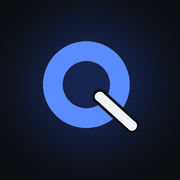
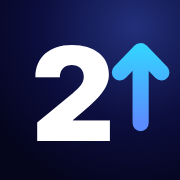
Nou nom: 2UP (Reps up. Weight up.) i entrenador IA Atlas; icona nova
Claude-Session: https://claude.ai/code/session_01DCgG94rPd1kzwswCFMenVE

diff --git a/index.html b/index.html
@@ -4,10 +4,10 @@
 <meta name="apple-mobile-web-app-capable" content="yes">
 <meta name="mobile-web-app-capable" content="yes">
 <meta name="apple-mobile-web-app-status-bar-style" content="black-translucent">
-<meta name="apple-mobile-web-app-title" content="Quadern">
+<meta name="apple-mobile-web-app-title" content="2UP">
 <link rel="manifest" href="manifest.webmanifest">
-<link rel="apple-touch-icon" href="apple-touch-icon.png?v=2">
-<link rel="icon" href="icon-192.png?v=2">
+<link rel="apple-touch-icon" href="apple-touch-icon.png?v=3">
+<link rel="icon" href="icon-192.png?v=3">
 <style>:root{box-sizing:border-box;padding-top:env(safe-area-inset-top,0px);padding-bottom:env(safe-area-inset-bottom,0px)}html{scroll-padding-top:env(safe-area-inset-top,0px)}body{margin:0;font:14px -apple-system,BlinkMacSystemFont,sans-serif}img{max-width:100%}[hidden]{display:none!important}
 #login{position:fixed;inset:0;z-index:50;background:var(--bg,#08082a);color:var(--fg,#eef1f4);overflow:auto;padding:calc(40px + env(safe-area-inset-top,0px)) max(20px,env(safe-area-inset-right,0px)) 40px max(20px,env(safe-area-inset-left,0px))}
 .lgin{max-width:420px;margin:0 auto;display:flex;flex-direction:column;gap:18px}
@@ -15,7 +15,7 @@
 <script src="https://cdn.jsdelivr.net/npm/@supabase/supabase-js@2.45.4/dist/umd/supabase.js"></script>
 <script src="store.js"></script>
 </head><body>
-<title>Quadern d'Entrenament</title>
+<title>2UP</title>
 
 <link rel="preconnect" href="https://fonts.googleapis.com">
 <link rel="preconnect" href="https://fonts.gstatic.com" crossorigin>
@@ -542,7 +542,7 @@ function renderTop(){
       <button class="pos" id="t-list" aria-label="Llista d'exercicis">${n?i+1:0} / ${n}</button>
       <button class="fin ${draft.id?"primary":""}" id="t-fin">${draft.id?"Desar":"Finalitzar"}</button></div>`;
   } else {
-    t.innerHTML=`<span class="brand">Quadern <i>d'entrenament</i></span><span style="display:flex;align-items:center;gap:2px">${IS_COACH()?`<button class="plain" id="t-clients" aria-label="Clients" style="font-size:15px;font-weight:700;padding:4px 8px;color:var(--accent)">Clients</button>`:""}<button class="plain" id="t-acc" aria-label="Compte i dades" style="font-size:20px;padding:4px 8px">⚙</button></span>`;
+    t.innerHTML=`<span class="brand">2UP <i>coached by Atlas</i></span><span style="display:flex;align-items:center;gap:2px">${IS_COACH()?`<button class="plain" id="t-clients" aria-label="Clients" style="font-size:15px;font-weight:700;padding:4px 8px;color:var(--accent)">Clients</button>`:""}<button class="plain" id="t-acc" aria-label="Compte i dades" style="font-size:20px;padding:4px 8px">⚙</button></span>`;
   }
 }
 $("#top").addEventListener("click",e=>{const b=e.target.closest("button");if(!b)return;
@@ -760,8 +760,8 @@ async function pushUI(){
   const P=window.QStore&&window.QStore.push, el=$("#acc-push"), b=$("#acc-notif"); if(!P||!el) return;
   const st=await P.state();
   const txt={on:"🔔 Notificacions activades en aquest mòbil.",off:"Activa les notificacions per rebre el pla del dia i l'informe del diumenge.",
-    denied:"Les notificacions estan bloquejades. Activa-les a Ajustos → Notificacions → Quadern.",
-    install:"Per rebre notificacions, obre el Quadern des de la icona de la pantalla d'inici.",unsupported:"Aquest mòbil no admet notificacions (cal iOS 16.4 o posterior)."}[st];
+    denied:"Les notificacions estan bloquejades. Activa-les a Ajustos → Notificacions → 2UP.",
+    install:"Per rebre notificacions, obre 2UP des de la icona de la pantalla d'inici.",unsupported:"Aquest mòbil no admet notificacions (cal iOS 16.4 o posterior)."}[st];
   el.textContent=txt; if(b){ b.hidden=!(st==="off"||st==="on"); b.textContent=st==="on"?"Enviar una notificació de prova":"🔔 Activar notificacions"; b.className=st==="on"?"":"primary"; b.dataset.st=st }
 }
 $("#scrim").addEventListener("click",async e=>{
@@ -841,7 +841,7 @@ function renderSummary(){
 /* còpia de seguretat */
 function backupJSON(){const c={};Object.keys(S).forEach(k=>{c[k]=(S[k]||[]).map(d=>({...d}))});return JSON.stringify({app:"quadern",version:1,exportedAt:new Date().toISOString(),collections:c})}
 async function exportData(b){
-  const name="quadern-copia-"+todayISO()+".json", txt=backupJSON();
+  const name="2up-copia-"+todayISO()+".json", txt=backupJSON();
   if(!window.QStore){ let dl=null; try{dl=await window.qapp.use("downloads")}catch(e){}
     if(!dl){toast("En aquesta vista no es poden descarregar fitxers");return}
     try{await dl.save({filename:name,data:new Blob([txt],{type:"application/json"})});toast("Còpia preparada")}catch(e){toast("Descàrrega cancel·lada")} return }

diff --git a/engage.js b/engage.js
@@ -1,4 +1,4 @@
-/* Quadern · enganxar: salutació, missatge de Q en format xat, hàbits i ratxes, resum divertit i targeta per compartir.
+/* 2UP · enganxar: salutació, missatge de Q en format xat, hàbits i ratxes, resum divertit i targeta per compartir.
    Depèn dels helpers globals de index.html (S, esc, fn, md, todayISO, addDays, weekStart, tplsSorted, bwData, vol...). */
 
 /* ---------- salutació ---------- */
@@ -22,7 +22,7 @@ function avuiTop(){
   if(seen===r.id) return "";
   const t=plain(r.text), short=t.length>240?t.slice(0,235).replace(/\s+\S*$/,"")+"…":t;
   const when=r.createdAt?new Date(r.createdAt).toLocaleDateString("ca-ES",{weekday:"short",day:"numeric",month:"short"}):"";
-  return `<div class="qchat"><div class="qav">${esc(QNAME())}</div><div class="qbody">
+  return `<div class="qchat"><div class="qav">${esc(QNAME().charAt(0))}</div><div class="qbody">
     <div class="qhead"><b>${esc(QNAME())}</b><span class="qia">IA</span><span class="sub" style="font-size:12px">${esc(when)}</span></div>
     <div class="qbub">${esc(short).replace(/\n/g,"<br>")}<span class="qtick">✓✓</span></div>
     <div class="qact"><a href="#informes">Llegir sencer ›</a><button class="plain" data-qseen="${esc(r.id)}">Entesos 👍</button></div>
@@ -93,7 +93,7 @@ function drawCard(x,s,X,Y,glass){
   const AIN=((window.QStore||{}).AI||{name:"Q"}).name;
   const ag=x.createLinearGradient(X+44,Y+40,X+104,Y+100); ag.addColorStop(0,"#5b8cff"); ag.addColorStop(1,"#34d4ff");
   x.fillStyle=ag; x.beginPath(); x.arc(X+74,Y+72,30,0,Math.PI*2); x.fill();
-  LS("0px"); x.fillStyle="#fff"; x.textAlign="center"; x.font=`italic 800 32px ${FD}`; x.fillText(AIN,X+74,Y+84);
+  LS("0px"); x.fillStyle="#fff"; x.textAlign="center"; x.font=`italic 800 32px ${FD}`; x.fillText(AIN.charAt(0),X+74,Y+84);
   x.textAlign="left"; x.fillStyle=CY; x.font=`600 28px ${FD}`; x.fillText(`Analitzat per ${AIN}`,X+120,Y+82);
   const ds=dt(s.date).toLocaleDateString("ca-ES",{day:"numeric",month:"short"}); x.textAlign="right"; x.fillStyle="rgba(255,255,255,.55)"; x.font=`600 26px ${FD}`; x.fillText(ds,X+W-44,Y+82);
   // trofeu
@@ -126,8 +126,8 @@ function drawCard(x,s,X,Y,glass){
     const w=THINGS.find(t=>t[0]===f.t); x.fillText(`Com aixecar ${f.t} (≈${fn(w?w[1]:0,0)} kg).`,cx,sy+222);
     x.fillStyle=CY; x.font=`700 28px ${FD}`; x.fillText(`${timesWord(kg/(w?w[1]:1))}.`,cx,sy+262) }
   // peu
-  LS("0px"); x.textAlign="left"; x.font=`700 28px ${FD}`; const w1=x.measureText("Quadern  ").width; x.font=`italic 800 28px ${FD}`; const w2=x.measureText("Una més.").width; const fx=cx-(w1+w2)/2;
-  x.fillStyle=CY; x.font=`700 28px ${FD}`; x.fillText("Quadern  ",fx,Y+CARD_H-40); x.fillStyle="#fff"; x.font=`italic 800 28px ${FD}`; x.fillText("Una més.",fx+w1,Y+CARD_H-40);
+  LS("0px"); x.textAlign="left"; x.font=`700 28px ${FD}`; const w1=x.measureText("2UP  ").width; x.font=`italic 800 28px ${FD}`; const w2=x.measureText("Reps up. Weight up.").width; const fx=cx-(w1+w2)/2;
+  x.fillStyle=CY; x.font=`700 28px ${FD}`; x.fillText("2UP  ",fx,Y+CARD_H-40); x.fillStyle="#fff"; x.font=`italic 800 28px ${FD}`; x.fillText("Reps up. Weight up.",fx+w1,Y+CARD_H-40);
   x.textAlign="left";
   return {kg,f};
 }
@@ -161,7 +161,7 @@ function openShareSheet(){
     <div><span class="lbl">Compartir la sessió</span><h2 style="margin:4px 0 0">Per a la teva <em>story</em></h2></div>
     <button class="go" data-sh="photo" style="font-size:18px!important">📸 Story amb una foto teva</button>
     <button data-sh="sticker" class="shopt"><b>🏷 Sticker transparent</b><span>Per posar a sobre d'un vídeo o foto a Instagram: copia'l i enganxa'l a la story</span></button>
-    <button data-sh="story" class="shopt"><b>📱 Story sense foto</b><span>Fons blau del Quadern (9:16)</span></button>
+    <button data-sh="story" class="shopt"><b>📱 Story sense foto</b><span>Fons blau de 2UP (9:16)</span></button>
     <button data-sh="post" class="shopt"><b>🖼 Post (4:5)</b><span>Per al feed</span></button>
     <button class="plain" data-shx>Cancel·lar</button>
     <input type="file" id="sh-file" accept="image/*" hidden></div>`;

diff --git a/emails/acces.html b/emails/acces.html
@@ -4,20 +4,20 @@
 <meta charset="utf-8">
 <meta name="viewport" content="width=device-width,initial-scale=1">
 <meta name="color-scheme" content="light only">
-<title>Accés al teu Quadern d'entrenament</title>
+<title>Accés a 2UP</title>
 </head>
 <body style="margin:0;padding:0;background:#eef1f6;font-family:-apple-system,BlinkMacSystemFont,'Segoe UI',Roboto,Helvetica,Arial,sans-serif;color:#141821;">
-<div style="display:none;max-height:0;overflow:hidden;">Crea o canvia la contrasenya per entrar al teu Quadern d'entrenament.</div>
+<div style="display:none;max-height:0;overflow:hidden;">Crea o canvia la contrasenya per entrar a 2UP.</div>
 <table role="presentation" width="100%" cellpadding="0" cellspacing="0" style="background:#eef1f6;">
 <tr><td align="center" style="padding:28px 14px;">
   <table role="presentation" width="100%" cellpadding="0" cellspacing="0" style="max-width:540px;background:#ffffff;border-radius:18px;overflow:hidden;">
     <tr><td style="background:#141821;padding:26px 30px;">
       <div style="font-size:12px;letter-spacing:2px;text-transform:uppercase;color:#9fb3ff;font-weight:700;">Sergi Coma · Entrenament personal</div>
-      <div style="font-size:26px;line-height:1.2;color:#ffffff;font-weight:800;margin-top:8px;">Accés al teu Quadern d'entrenament</div>
+      <div style="font-size:26px;line-height:1.2;color:#ffffff;font-weight:800;margin-top:8px;">Accés a 2UP</div>
     </td></tr>
     <tr><td style="padding:28px 30px 8px;font-size:16px;line-height:1.55;">
       <p style="margin:0 0 14px;">Hola!</p>
-      <p style="margin:0 0 14px;">Aquí tens l'enllaç per crear (o canviar) la contrasenya del teu Quadern d'entrenament, on tens les <b>rutines</b>, la <b>pauta d'alimentació</b> i el <b>seguiment setmanal</b>.</p>
+      <p style="margin:0 0 14px;">Aquí tens l'enllaç per crear (o canviar) la contrasenya de 2UP, on tens les <b>rutines</b>, la <b>pauta d'alimentació</b> i el <b>seguiment setmanal</b>.</p>
       <p style="margin:0 0 22px;">Si és el primer cop que hi entres, són tres passos:</p>
     </td></tr>
     <tr><td style="padding:0 30px;">
@@ -46,7 +46,7 @@
       <p style="margin:0;color:#6b7280;font-size:14px;">Entrenador personal</p>
     </td></tr>
     <tr><td style="border-top:1px solid #e5e7eb;padding:16px 30px;font-size:12px;line-height:1.5;color:#8a919c;">
-      Reps aquest correu perquè s'ha demanat un accés al teu Quadern d'entrenament. Si no ho has demanat tu, ignora'l: la teva contrasenya no canviarà.
+      Reps aquest correu perquè s'ha demanat un accés a 2UP. Si no ho has demanat tu, ignora'l: la teva contrasenya no canviarà.
     </td></tr>
   </table>
 </td></tr>

diff --git a/emails/benvinguda.html b/emails/benvinguda.html
@@ -4,7 +4,7 @@
 <meta charset="utf-8">
 <meta name="viewport" content="width=device-width,initial-scale=1">
 <meta name="color-scheme" content="light only">
-<title>Benvinguda al teu Quadern d'entrenament</title>
+<title>Benvinguda a 2UP</title>
 </head>
 <body style="margin:0;padding:0;background:#eef1f6;font-family:-apple-system,BlinkMacSystemFont,'Segoe UI',Roboto,Helvetica,Arial,sans-serif;color:#141821;">
 <div style="display:none;max-height:0;overflow:hidden;">Ja tens accés a les teves rutines, la teva pauta i el seguiment. Crea la contrasenya per començar.</div>
@@ -13,7 +13,7 @@
   <table role="presentation" width="100%" cellpadding="0" cellspacing="0" style="max-width:540px;background:#ffffff;border-radius:18px;overflow:hidden;">
     <tr><td style="background:#141821;padding:26px 30px;">
       <div style="font-size:12px;letter-spacing:2px;text-transform:uppercase;color:#9fb3ff;font-weight:700;">Sergi Coma · Entrenament personal</div>
-      <div style="font-size:26px;line-height:1.2;color:#ffffff;font-weight:800;margin-top:8px;">Benvingut/da al teu Quadern d'entrenament</div>
+      <div style="font-size:26px;line-height:1.2;color:#ffffff;font-weight:800;margin-top:8px;">Benvingut/da a 2UP</div>
     </td></tr>
     <tr><td style="padding:28px 30px 8px;font-size:16px;line-height:1.55;">
       <p style="margin:0 0 14px;">Hola!</p>
@@ -46,7 +46,7 @@
       <p style="margin:0;color:#6b7280;font-size:14px;">Entrenador personal</p>
     </td></tr>
     <tr><td style="border-top:1px solid #e5e7eb;padding:16px 30px;font-size:12px;line-height:1.5;color:#8a919c;">
-      Reps aquest correu perquè el teu entrenador t'ha donat d'alta al Quadern d'entrenament. Si no ho esperaves, ignora'l i no es crearà cap accés.
+      Reps aquest correu perquè el teu entrenador t'ha donat d'alta a 2UP. Si no ho esperaves, ignora'l i no es crearà cap accés.
     </td></tr>
   </table>
 </td></tr>

diff --git a/store.js b/store.js
@@ -1,4 +1,4 @@
-/* Quadern · capa de dades local-primer amb sincronització a Supabase.
+/* 2UP · capa de dades local-primer amb sincronització a Supabase.
    API de col·leccions (collection/doc/set/update/delete/get/onSnapshot). Tot s'escriu primer al mòbil i es puja quan hi ha connexió.
    Multiusuari: l'entrenador pot "obrir" un client (Q.viewAs) i llavors llegeix i escriu les dades d'aquell client. */
 (function(){
@@ -14,7 +14,8 @@
   const CLIENT_COLS=["sessions","bodyweight","kcallog","drafts","intake"];
   const COACH_COLS=["exercises","templates","targets","programs","nutrition","reports"];
   const CONSENT_VERSION="v3-2026-11";
-  const AI={name:"Q",full:"Q, l'entrenador IA del Quadern",provider:"Claude, d'Anthropic PBC"};
+  const AI={name:"Atlas",full:"Atlas, l'entrenador IA de 2UP",provider:"Claude, d'Anthropic PBC"};
+  const APP_NAME="2UP";
   const CONTROLLER={name:"Sergi Coma",role:"entrenador personal",contact:"sergicogu@gmail.com"};
 
   const Q={sb,uid:null,email:null,target:null,viewing:null,profile:null,consent:null,
@@ -234,7 +235,7 @@
     if(!document.body){document.addEventListener("DOMContentLoaded",()=>screen(html),{once:true});return null}
     let el=document.getElementById("login");
     if(!el){el=document.createElement("div");el.id="login";document.body.appendChild(el)}
-    el.hidden=false; el.scrollTop=0; el.innerHTML=`<div class="lgin"><div class="lgbrand">Quadern <i>d'entrenament</i></div>${html}</div>`; return el;
+    el.hidden=false; el.scrollTop=0; el.innerHTML=`<div class="lgin"><div class="lgbrand">2UP <i>Reps up. Weight up.</i></div>${html}</div>`; return el;
   }
   const $i=id=>document.getElementById(id);
   const msgTo=id=>t=>{const m=$i(id);if(m)m.textContent=t};

diff --git a/coach.js b/coach.js
@@ -1,4 +1,4 @@
-/* Quadern · mode entrenador
+/* 2UP · mode entrenador
    - Panell de clients (resum de cada client, invitacions, obrir/desvincular)
    - Vista d'un client: Resum (informe automàtic), Rutines (editor), Pauta (editor amb calculadora), Pes, Setmana, Menjar, Informes
    - Informe setmanal automàtic (també el veu el client a Informes)
@@ -45,7 +45,7 @@ function allowView(v){
 
 /* ---------- PANELL DE CLIENTS ---------- */
 let ovw=null, ovwErr=null, ovwInv=[], ovwBusy=false, invLink=null, invName="", invWhy="", unlinkConfirm=null;
-const waText=(n,l)=>`Ei${n?" "+n.split(" ")[0]:""}! T'he convidat al Quadern, l'app amb què porto els entrenaments 💪\n\n1. Obre aquest enllaç i crea't una contrasenya:\n${l}\n\n2. Accepta el consentiment i omple la fitxa inicial.\n3. Afegeix l'app a la pantalla d'inici (Safari → Compartir → Afegir a pantalla d'inici) i activa les notificacions a ⚙.\n\nAquella nit et preparem la rutina i la pauta!`;
+const waText=(n,l)=>`Ei${n?" "+n.split(" ")[0]:""}! T'he convidat a 2UP, l'app amb què porto els entrenaments 💪\n\n1. Obre aquest enllaç i crea't una contrasenya:\n${l}\n\n2. Accepta el consentiment i omple la fitxa inicial.\n3. Afegeix l'app a la pantalla d'inici (Safari → Compartir → Afegir a pantalla d'inici) i activa les notificacions a ⚙.\n\nAquella nit et preparem la rutina i la pauta!`;
 async function loadOverview(){
   if(ovwBusy) return; ovwBusy=true;
   try{

diff --git a/sw.js b/sw.js
@@ -1,5 +1,5 @@
-/* Quadern · funciona sense connexió: guarda l'app i les llibreries al mòbil */
-const V="quadern-v15";
+/* 2UP · funciona sense connexió: guarda l'app i les llibreries al mòbil */
+const V="quadern-v16";
 const CORE=["./","index.html","store.js","coach.js","engage.js","manifest.webmanifest","icon-192.png","icon-512.png","apple-touch-icon.png",
  "https://cdn.jsdelivr.net/npm/@supabase/supabase-js@2.45.4/dist/umd/supabase.js","https://cdn.jsdelivr.net/npm/chart.js@4.4.1/dist/chart.umd.js"];
 self.addEventListener("install",e=>{e.waitUntil(caches.open(V).then(c=>Promise.all(CORE.map(u=>c.add(u).catch(()=>{})))).then(()=>self.skipWaiting()))});
